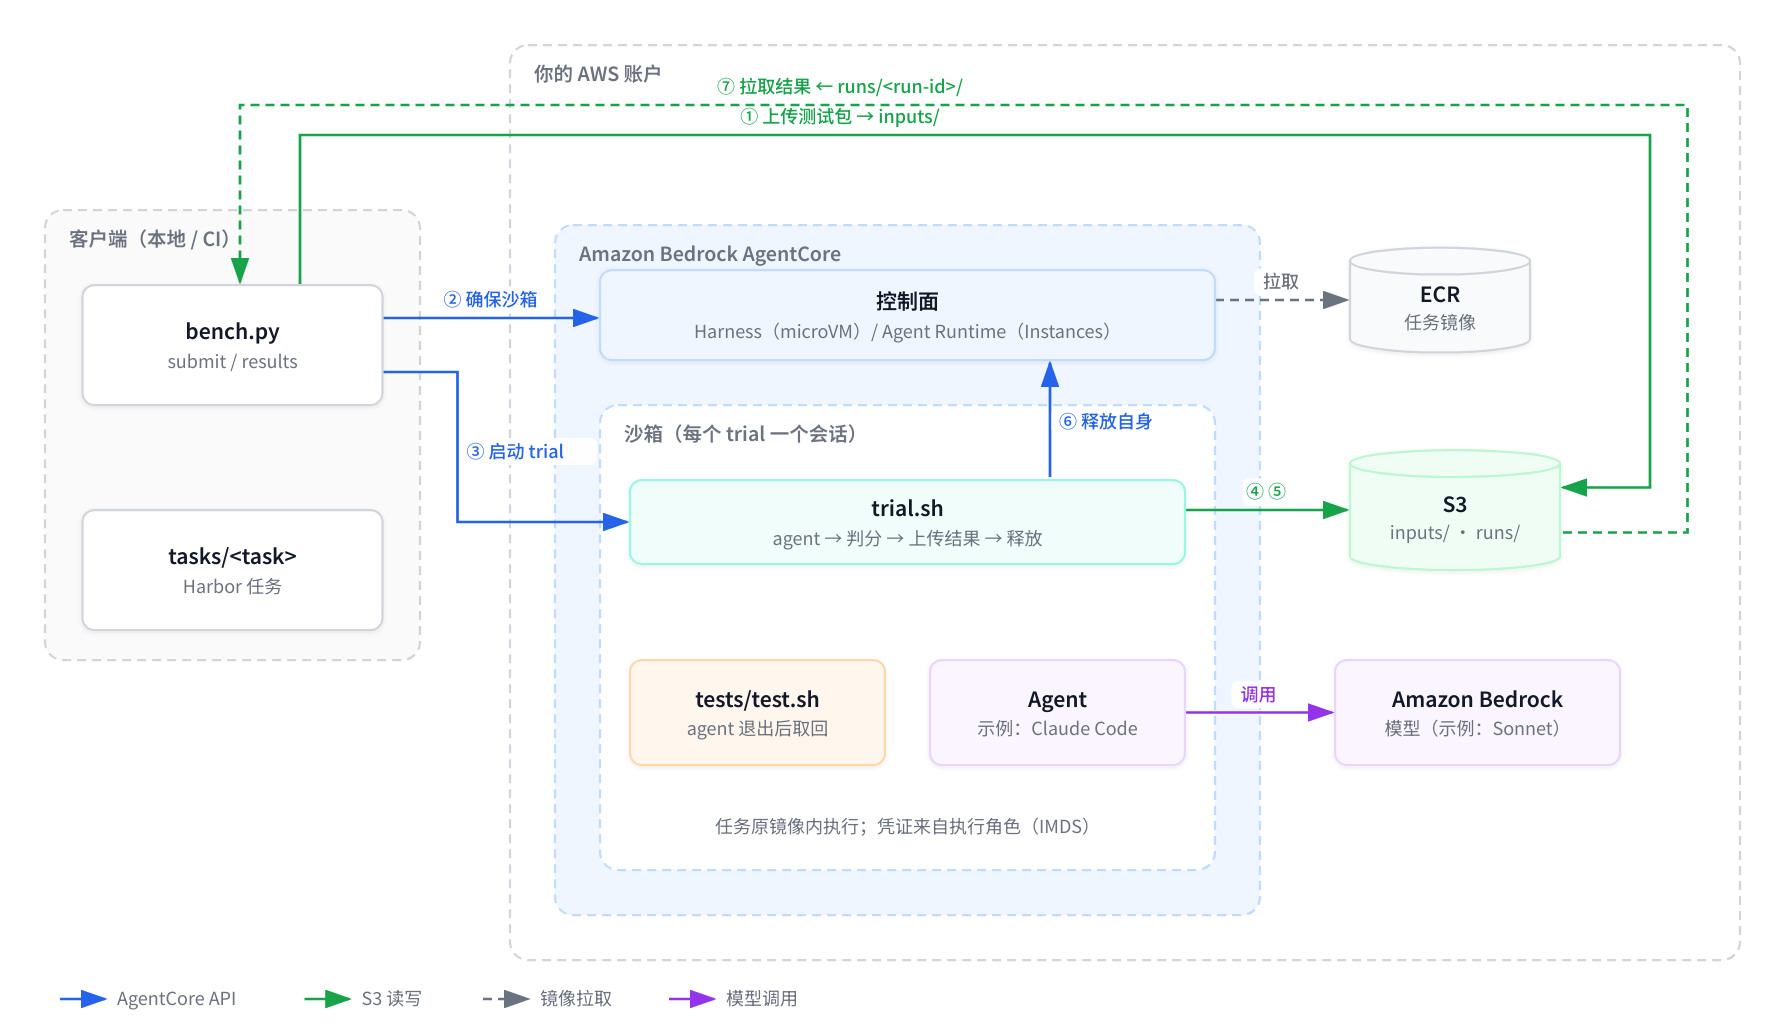
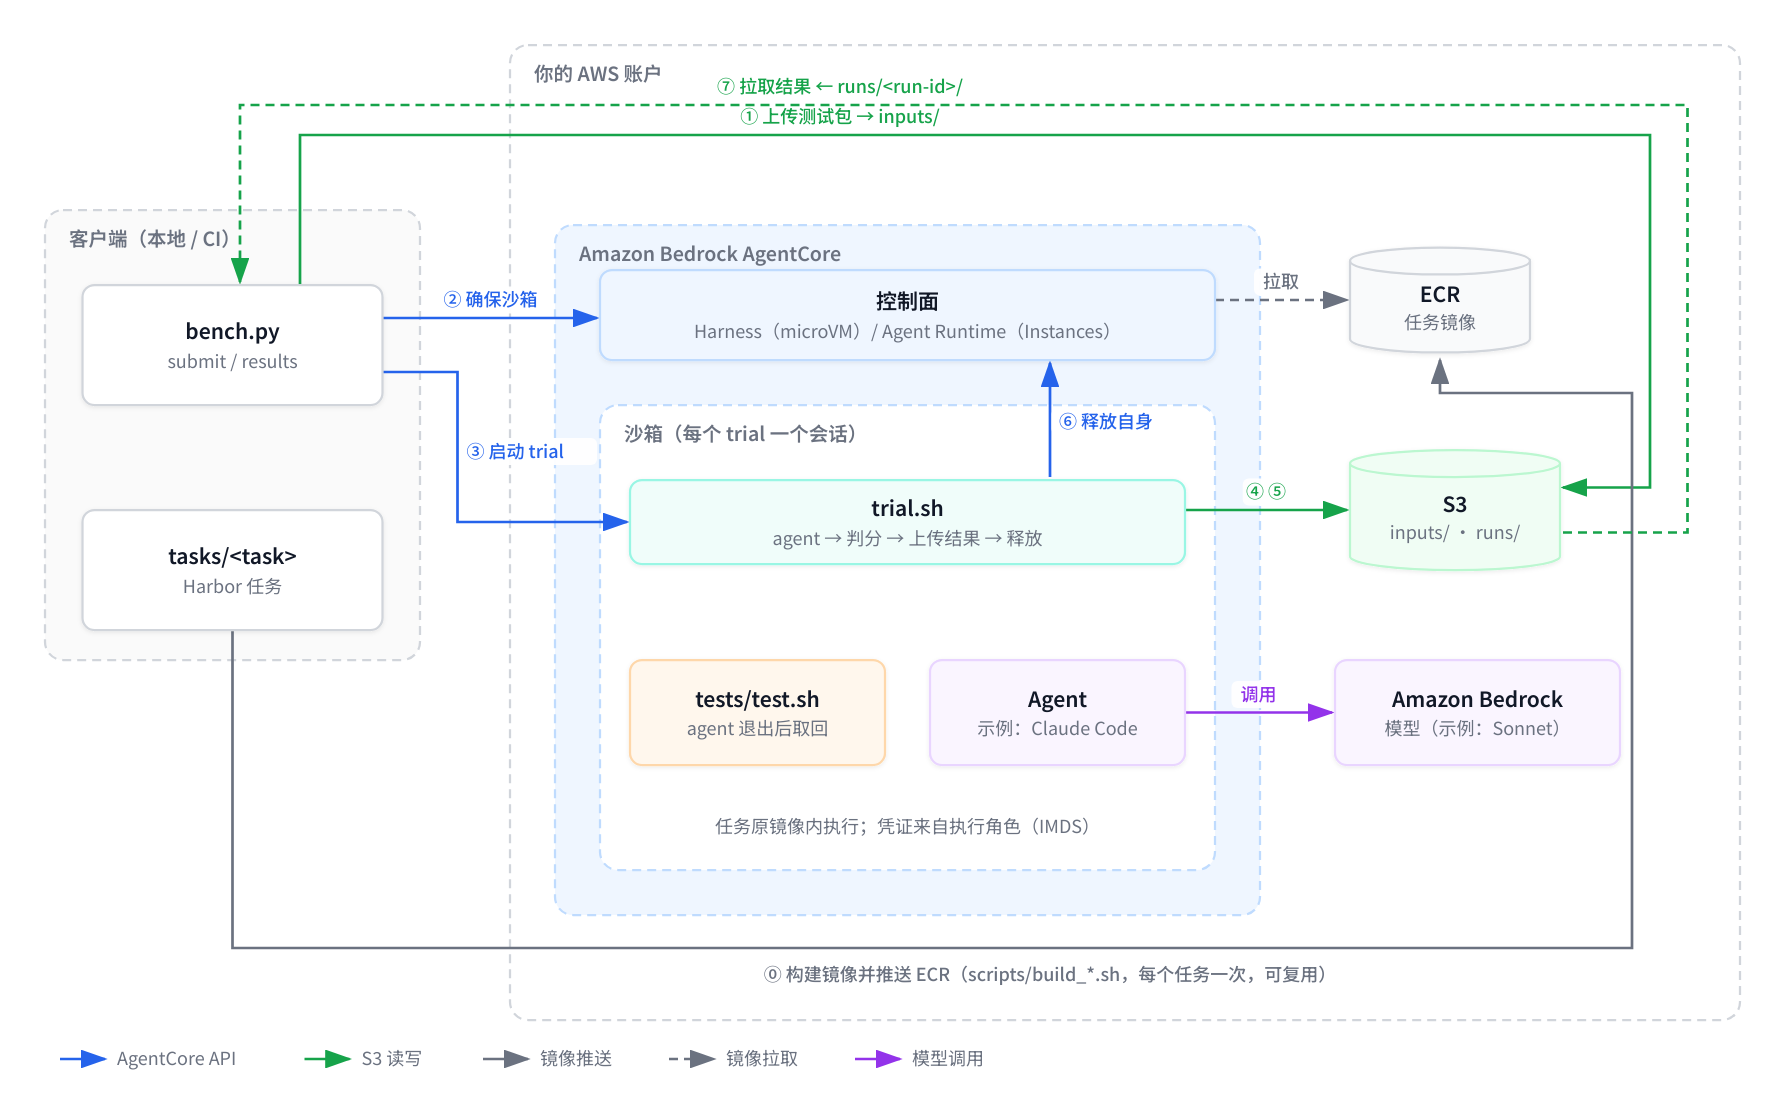
Architecture: add step 0, build images and push to ECR

diff --git a/README.md b/README.md
@@ -12,6 +12,7 @@
 
 | 编号 | 谁执行 | 做什么 |
 |---|---|---|
+| ⓪ | 客户端 | 准备工作，每个任务做一次：用 `scripts/build_*.sh` 按通用模板构建镜像并推送到 ECR，之后的 trial 复用 |
 | ① | 客户端 | 把任务的 `tests/` 打包上传到 S3 `inputs/<task>/<run-id>/tests.tgz` |
 | ② | 客户端 | 确保沙箱存在：同一镜像复用同一个 Harness / Agent Runtime，首次使用时创建 |
 | ③ | 客户端 | 在新会话里安装 agent，然后送入 `trial.sh` 并后台启动。**调用立即返回，客户端到此结束** |
